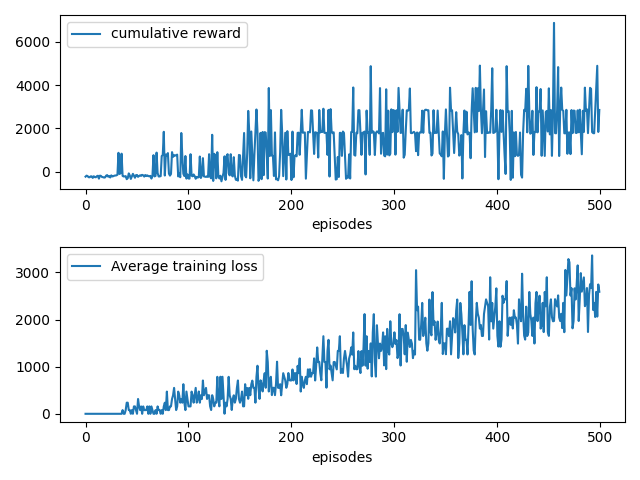
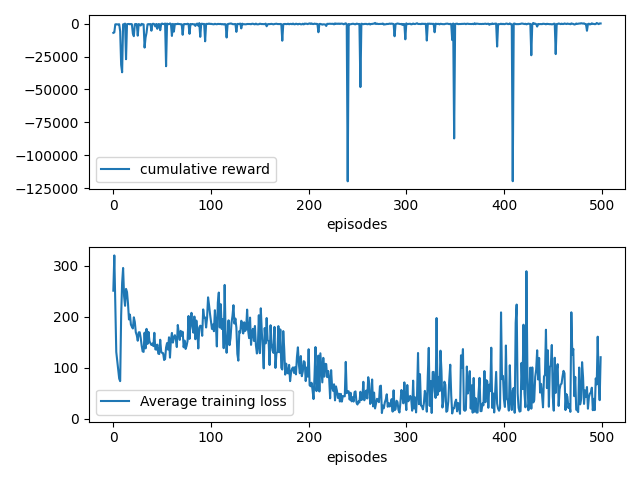
ahah OHLE git add -A! TOREADOR git add -A!

diff --git a/gym-ants/gym_ants/species/Fourmi.py b/gym-ants/gym_ants/species/Fourmi.py
@@ -28,7 +28,7 @@ class Fourmi(Species):
         self.age = -timeInEggForm
         self.isEgg=False
         self.hungriness = 0
-        
+        self.enemyAttacking = None
         self.isCarried=False
         self.isEaten = False
         self.fourmiSenseRadius = fourmiSenseRadius
@@ -41,7 +41,7 @@ class Fourmi(Species):
         self.visionRayObject = []
         self.obstacleInVisionRange = []
         self.obstacleInVisionDistance = []
-
+        self.isHit = False
         self.objectInVisionRange = []
         self.objectInVisionDistance = []
 
@@ -127,11 +127,9 @@ class Fourmi(Species):
             self.objectInVisionRange.append(grass)
             self.objectInVisionDistance.append(distance)
         for fourmi in fourmis:
-            if fourmi.colonieId == self.colonieId:
-                continue
-            C = fourmi.coordinate
-            distance = calcDistanceBetweenTwoPoint(C, E)
-            if distance < lengthRay:
+            if fourmi.colonieId != self.colonieId:
+                C = fourmi.coordinate
+                distance = calcDistanceBetweenTwoPoint(C, E)
                 self.enemyInVisionRange.append(fourmi)
                 self.enemyInVisionDistance.append(distance)
         for obstacle in obstacles:
@@ -256,12 +254,16 @@ class Fourmi(Species):
         self.isDead = True 
 
     def interaction_between_colonies(self, creatures):
+        self.isHit=False
         for creature in creatures:
             if aColideWithB(self.coordinate[0], self.coordinate[1], self.radius, creature.coordinate[0],
                             creature.coordinate[1]):
 
                 # Si les fourmis qui se rencontrent ne sont pas de la même colonie, elles se battent
                 if creature.colonieId != self.colonieId:
+                    wasAttacked = True
+                    self.isHit = True
+
                     if self.isEgg:
                         if not creature.isEgg:
                             self.eaten() # L'oeuf se fait manger par la fourmi adverse
@@ -269,9 +271,9 @@ class Fourmi(Species):
                             continue # Si les deux fourmis sont des oeufs, rien ne se passe
                     
                     # Le degré de la blessure va dépendre de la santé des deux fourmis 
-                    if creature.health > 0 and self.health > 0:
-                        injury_degree = self.random.beta(creature.health, self.health)
-                        self.health = int(self.health * injury_degree)
+                    # if creature.health > 0 and self.health > 0:
+                    #     injury_degree = self.random.beta(creature.health, self.health)
+                    #     self.health = int(self.health * injury_degree)
 
 
 

diff --git a/gym-ants/gym_ants/helpers/Instance.py b/gym-ants/gym_ants/helpers/Instance.py
@@ -176,6 +176,17 @@ class Instance(object):
 
         return [-1,-1]
 
+    def getClosestEnnemyCoordinate(self,cell):
+        minDist = np.sqrt(self.maxX ** 2 + self.maxY ** 2)
+        index = 0
+        if len(cell.enemyInVisionRange) > 0:
+            minDist = min(cell.enemyInVisionDistance)
+            index = cell.enemyInVisionDistance.index(minDist)
+            return cell.enemyInVisionRange[index].coordinate
+
+
+        return [-1,-1]
+
     def getClosestObstacleCoordinate(self,cell):
         minDist = np.sqrt(self.maxX ** 2 + self.maxY ** 2)
         index = 0
@@ -216,9 +227,13 @@ class Instance(object):
 
     def _get_reward(self, cell):
         minDist = np.sqrt(self.maxX ** 2 + self.maxY ** 2)
+        eaten = 0
         if cell.hasEaten:
-            return 100
-        reward = self.calcDistanceReward(cell)
+            eaten=  10
+        hit = 0
+        if cell.isHit:
+            hit = -1
+        reward = eaten + hit +self.calcDistanceReward(cell)
         return reward
 
 
@@ -280,7 +295,8 @@ class Instance(object):
         # return np.array([cell.coordinate[0], cell.coordinate[1], cell.health, self.closestFood(cell), self.closestObstacle(cell), self.closestEnemy(cell)])
         closestFoodCoordinate = self.getClosestFoodCoordinate(cell)
 
-
+        enemyCoordinate = self.getClosestEnnemyCoordinate(cell)
+        enemyDistance = self.closestEnemy(cell)/minDist
         if closestFoodCoordinate[0] > cell.coordinate[0] +10:
             droite=1
         elif closestFoodCoordinate[0] < cell.coordinate[0] -10:
@@ -295,8 +311,24 @@ class Instance(object):
         else:
             haut = 0
 
+        if enemyCoordinate[0] > cell.coordinate[0] +10:
+            droiteEnemy=1
+        elif enemyCoordinate[0] < cell.coordinate[0] -10:
+            droiteEnemy = -1
+        else:
+            droiteEnemy = 0
+
+        if enemyCoordinate[1]> cell.coordinate[1]+10:
+            hautEnemy = 1
+        elif enemyCoordinate[1] < cell.coordinate[1] - 10:
+            hautEnemy = -1
+        else:
+            hautEnemy = 0
+
+
+
         # return np.array([cell.coordinate[0], cell.coordinate[1],closestFoodCoordinate[0],closestFoodCoordinate[1]])
-        return np.array([droite,haut])
+        return np.array([droite,haut,droiteEnemy,hautEnemy,enemyDistance])
 
 
 

diff --git a/main_PPO.py b/main_PPO.py
@@ -131,13 +131,11 @@ def main():
         writer.add_scalar('ep_r', score, global_step=total_steps)
         print('steps: {}'.format(int(total_steps/1000)),'score:', score)"""
     while total_steps < Max_train_steps:
-        print('total_steps : ',total_steps)
         states, done, steps, ep_r = env.reset(), False, 0, 0
 
         '''Interact & trian'''
         steps = 0
         while  steps < 500:
-            print('steps : ', steps)
             traj_lenth += 1
             steps += 1
             if True:
@@ -157,8 +155,6 @@ def main():
                     pi_actions.append(pi_a)
 
             actions = np.array(actions)
-            print(actions)
-            print('buyashaka !!!')
             pi_actions = np.array(pi_actions)
             next_states, rewards, done, info = env.step(actions)
 

diff --git a/gym-ants/gym_ants/species/FourmieCreator.py b/gym-ants/gym_ants/species/FourmieCreator.py
@@ -39,7 +39,7 @@ class FourmieCreator(SpeciesCreator):
         return fourmie
 
     def Update(self) :
-        if (self.nbFourmiPerColonie >= self.numberFourmiesCreatedPerColonie) :
+        if (self.nbFourmiPerColonie > self.numberFourmiesCreatedPerColonie) :
             self.firstFourmiInColonie = False
         else :
             self.firstFourmiInColonie = True
@@ -49,9 +49,9 @@ class FourmieCreator(SpeciesCreator):
             self.currentColonieReine = None
 
     def initColor(self) :
-        r = random.randint(0, 100)
-        g = random.randint(0, 100)
-        b = random.randint(0, 100)
+        r = random.randint(0, 255)
+        g = random.randint(0, 255)
+        b = random.randint(0, 255)
         self.colonieInCreationColor = (r,g,b)
 
     def Create(self,parent=None,type=1):

diff --git a/main_DQN.py b/main_DQN.py
@@ -157,7 +157,7 @@ def run(batch_size, gamma, buffer_size, seed, tau, training_interval, learning_r
     environment = gym.make('gym_ants:ants-v0')
     set_random_seed(environment, seed)
 
-    model = NNModel(2, 4)
+    model = NNModel(5, 4)
     nb_trajectories = 500
 
     source_agent = DQN(environment.action_space, network=model, optimizer=torch.optim.Adam(model.parameters(), lr=learning_rate), loss_function=dqn_loss)
@@ -231,7 +231,7 @@ def run(batch_size, gamma, buffer_size, seed, tau, training_interval, learning_r
         subfig.plot(fig_to_plot[index], label=labels[index])
         subfig.set_xlabel(x_labels[index])
         subfig.legend()
-    pyplot.savefig('test.png')
+    pyplot.savefig('test_enemy_3_randomFood.png')
     
 
 if __name__ == "__main__":

diff --git a/gym-ants/gym_ants/config/AntsEnvConfig.py b/gym-ants/gym_ants/config/AntsEnvConfig.py
@@ -1,7 +1,7 @@
 import numpy as np
 
-SCREEN_SIZE_X = 800
-SCREEN_SIZE_Y = 800
+SCREEN_SIZE_X = 1200
+SCREEN_SIZE_Y = 1000
 
 nbHerbivore = 0
 herbivoreInitRadius=20
@@ -19,7 +19,7 @@ carnivoreReproductionThreshold=3
 carnivoreHungrinessThreshold=25
 
 nbFourmiPerColonie = 2
-nbFourmiColonie =1
+nbFourmiColonie =2
 timeInEggForm = 500
 fourmiInitRadius=20
 fourmiInitHealth=10000
@@ -34,7 +34,7 @@ positionObstacle = [(100, 100), (200,200)]
 
 
 grassRadius=10
-nbGrass=5
+nbGrass=15
 grassZoneEditRadius=50
 herbivorePas=1
 carnivorePas=1
